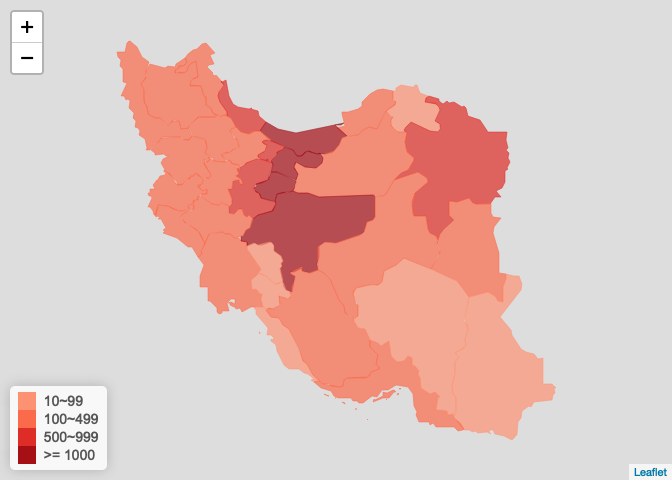
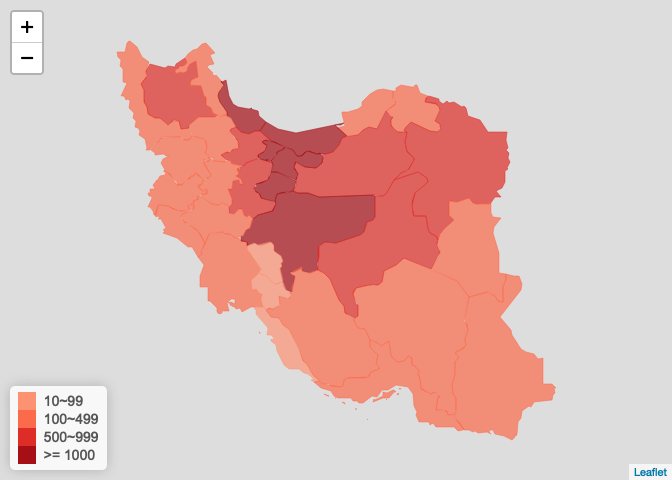
refactor: use data from https://github.com/BlankerL/DXY-COVID-19-Data/

Changed region(s): [[0.4375, 0.1562, 0.8438, 0.9375], [0.1875, 0.125, 0.4375, 0.3438]]

diff --git a/README.md b/README.md
@@ -1,6 +1,6 @@
 ncov 2019
 ================
-2020年03月17日
+2020年03月21日
 
 ``` r
 knitr::opts_chunk$set(
@@ -33,13 +33,13 @@ library(leafletCN)
 ## 下载ncov数据
 
 ``` r
-ncov <- get_ncov2()
+ncov <- get_ncov2(method = "api")
 ncov
 ```
 
     ## All COVID 2019 Data
-    ## Updated at 2020-03-16 15:44:16 
-    ## From https://github.com/yiluheihei/nCoV-2019-Data
+    ## Updated at 2020-03-20 15:48:40 
+    ## From https://github.com/BlankerL/DXY-COVID-19-Data
 
 ## 提取省市或国家数据
 
@@ -50,8 +50,8 @@ china
 ```
 
     ## China COVID 2019 Data
-    ## Updated at 2020-03-16 13:54:38 
-    ## From https://github.com/yiluheihei/nCoV-2019-Data
+    ## Updated at 2020-03-20 09:31:14 
+    ## From https://github.com/BlankerL/DXY-COVID-19-Data
 
 ``` r
 # 省市数据
@@ -60,8 +60,8 @@ hubei
 ```
 
     ## Hubei COVID 2019 Data
-    ## Updated at 2020-03-16 13:54:01 
-    ## From https://github.com/yiluheihei/nCoV-2019-Data
+    ## Updated at 2020-03-20 07:29:42 
+    ## From https://github.com/BlankerL/DXY-COVID-19-Data
 
 ``` r
 beijing <- ncov['北京市']
@@ -69,8 +69,8 @@ beijing
 ```
 
     ## Beijing COVID 2019 Data
-    ## Updated at 2020-03-16 07:44:16 
-    ## From https://github.com/yiluheihei/nCoV-2019-Data
+    ## Updated at 2020-03-20 06:19:56 
+    ## From https://github.com/BlankerL/DXY-COVID-19-Data
 
 ``` r
 beijing$cities
@@ -85,8 +85,8 @@ world
 ```
 
     ## World COVID 2019 Data
-    ## Updated at 2020-03-16 06:53:45 
-    ## From https://github.com/yiluheihei/nCoV-2019-Data
+    ## Updated at 2020-03-20 15:29:10 
+    ## From https://github.com/BlankerL/DXY-COVID-19-Data
 
 ## 国内总体疫情图
 
